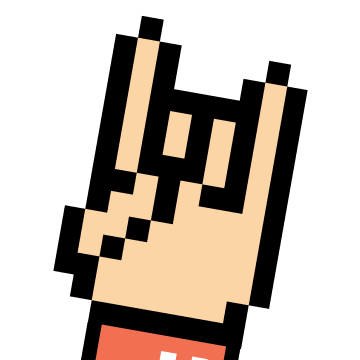
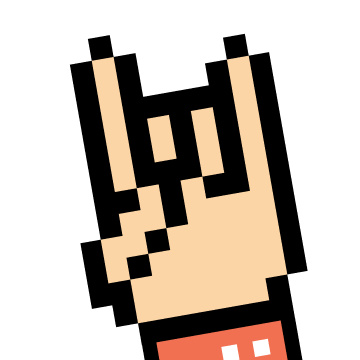
added hand 01

diff --git a/README.md b/README.md
@@ -2,7 +2,6 @@
 <img align="left" width="200" src="./img/hand2.png">
 
 <br/>
-<br/>
 
 
 ### Hello 👋
@@ -28,6 +27,9 @@ Below, you can see some of my favourite projects:
 * 🐈 [snowball](https://github.com/snowball-lang/snowball) - A low-weight, statically typed, object oriented programming language with garbage collector and module system.
 * 🔓 [wonoly](https://github.com/wonoly) - Wonoly is a bussines that cares about privacy, not your data.
 * 🌐 [expross](https://github.com/mauro-balades/expross) - Expross is a lightweight webserver to introduce JavaScript developers familiar with Express to Python.
+
+<img align="right" width="200" src="./img/hand1.png">
+
 * 🛕 [yate](https://github.com/mauro-balades/yate) - Yet another template engine. Yate is a small, fast html template engine.
 * 💻 [NativeTS](https://github.com/mauro-balades/NativeTS) - A small typescript compiler to llvm.
 * 🌳 [Cpp HTML parser](https://github.com/mauro-balades/cpp-html-parser) - A HTML parser, returning a HTML AST.
